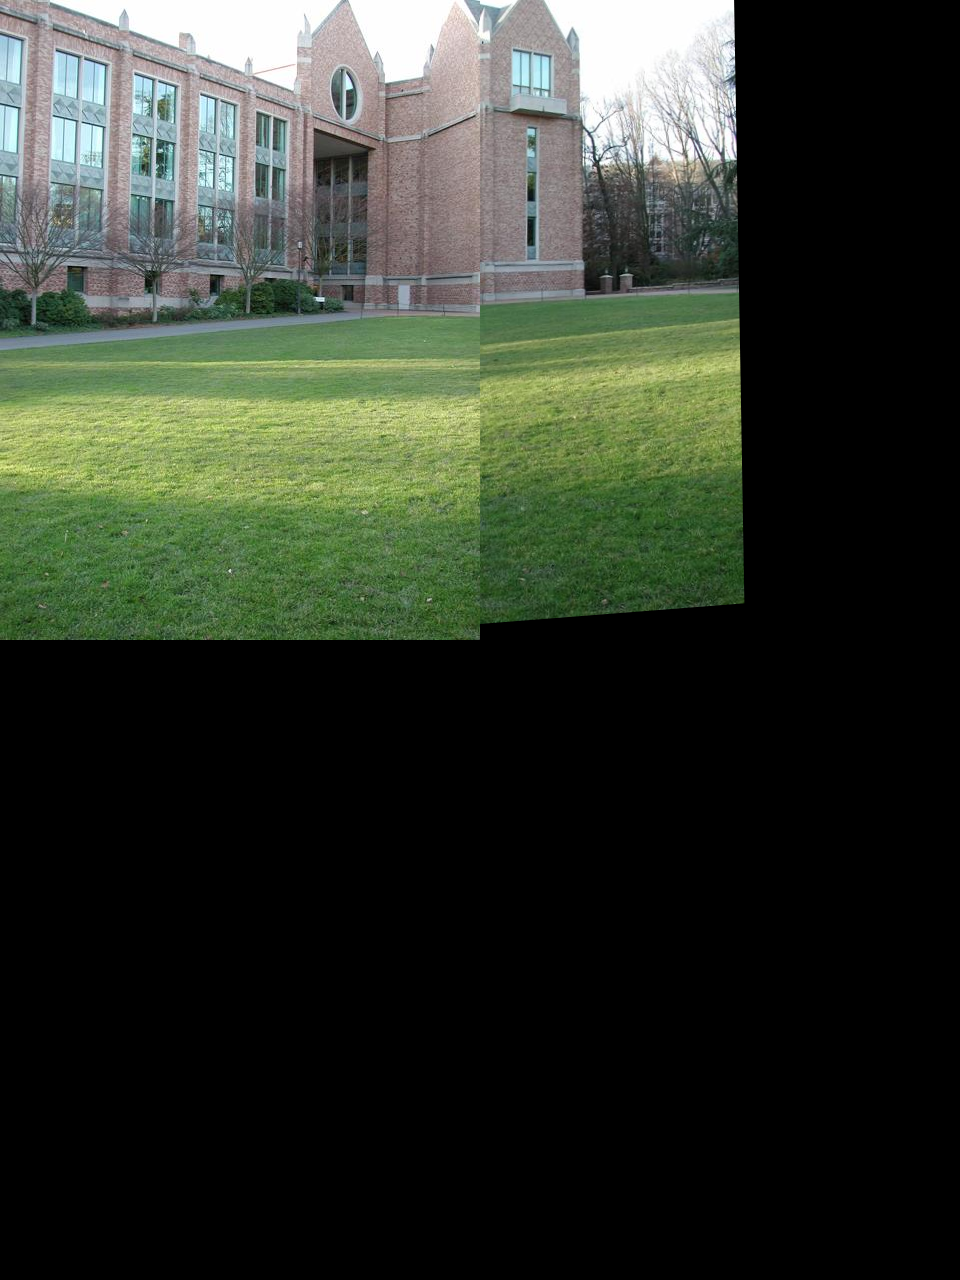
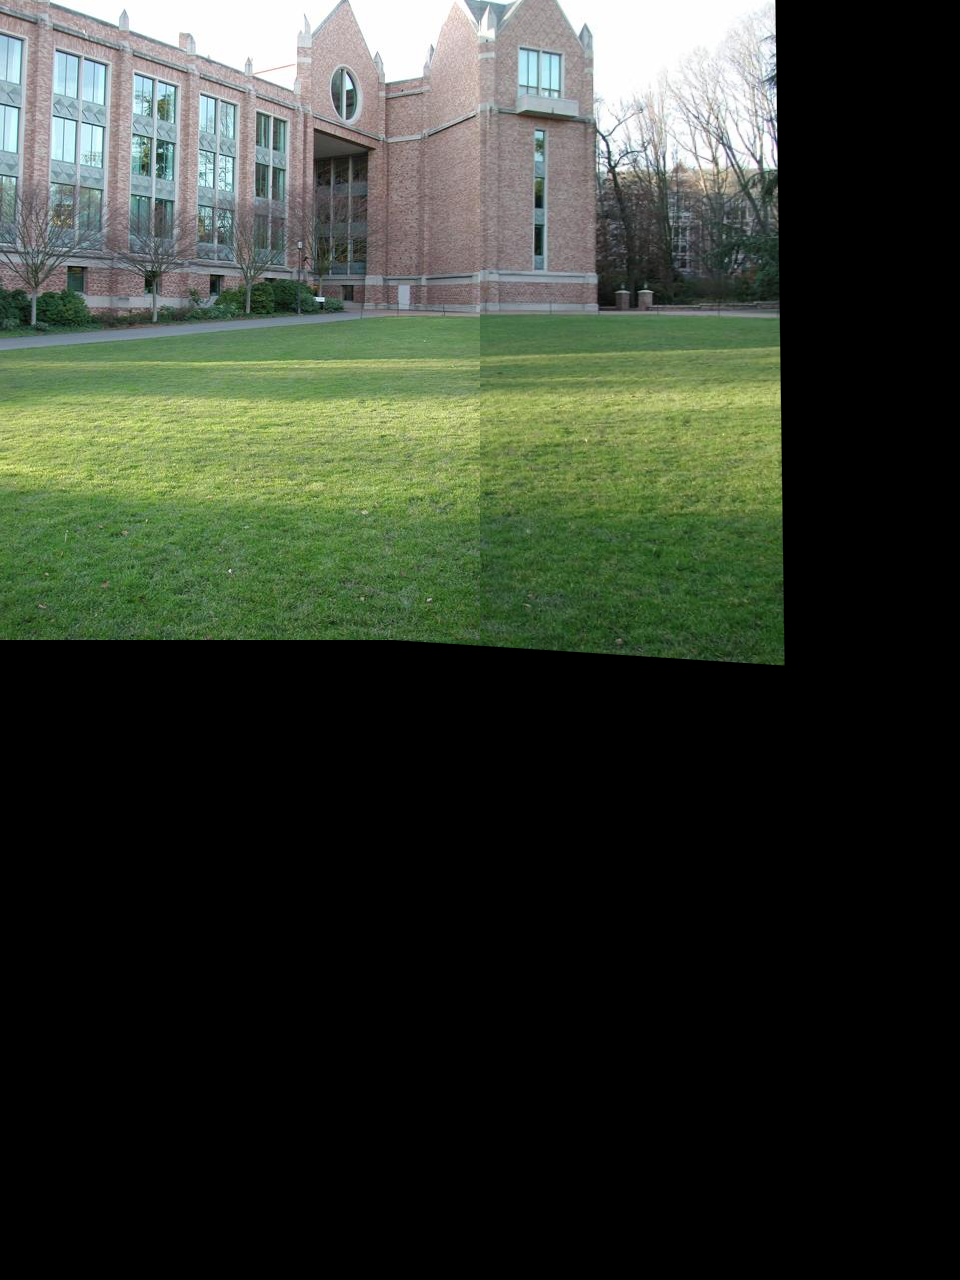
readme and results

Changed region(s): [[0.4688, 0.0, 0.8438, 0.5312]]

diff --git a/04/180050085_180050090_180070060_lab03_midsem/code/pano-auto.py b/04/180050085_180050090_180070060_lab03_midsem/code/pano-auto.py
@@ -21,7 +21,7 @@ if __name__ == "__main__":
 	
 
 	# train img is the one to be transformed
-	query_img, train_img = [cv.imread(os.path.join(path, f), 1) for f in files]
+	train_img, query_img = [cv.imread(os.path.join(path, f), 1) for f in files]
 
 	# # input point correspondences
 	query_img_bw = cv.cvtColor(query_img, cv.COLOR_BGR2GRAY)
@@ -50,11 +50,13 @@ if __name__ == "__main__":
 	matches = sorted(matches, key = lambda x:x.distance)
 
 	# Draw first 10 matches.
-	img3 = cv.drawMatches(query_img,kpq,train_img,kpt,matches[:35],None, flags=2)
+	img3 = cv.drawMatches(query_img,kpq,train_img,kpt,np.random.choice(matches, 35),None, flags=2)
 
 	# matches = (sorted(matches, key = lambda d :d.distance,reverse = True))[:10]
 	# im_matches = cv.drawMatches(train_img,kpt,query_img,kpq,matches, None,flags=cv.DrawMatchesFlags_NOT_DRAW_SINGLE_POINTS)
 	cv.imshow("matches", img3)
+	cv.waitKey(0)
+	cv.destroyAllWindows()
 
 
 	kpT = np.float32([kp.pt for kp in kpt])
@@ -69,10 +71,14 @@ if __name__ == "__main__":
 	else:
 		raise AssertionError("Insufficient Keypoints (<4)")
 
-	print(H)
+	# print(H)
 
 	pano = cv.warpPerspective(train_img, H, (train_img.shape[1] + query_img.shape[1], train_img.shape[0] + query_img.shape[0]))
 	pano[0:query_img.shape[0], 0:query_img.shape[1]] = query_img
+	
+	# save final pano first
+	dest_dir = os.path.normpath(path).split(os.sep)[-1]
+	cv.imwrite("../results/pano-auto-results/{}.png".format(dest_dir), pano)
 	cv.imshow("result", pano)
 	cv.waitKey(0)
 	cv.destroyAllWindows()
